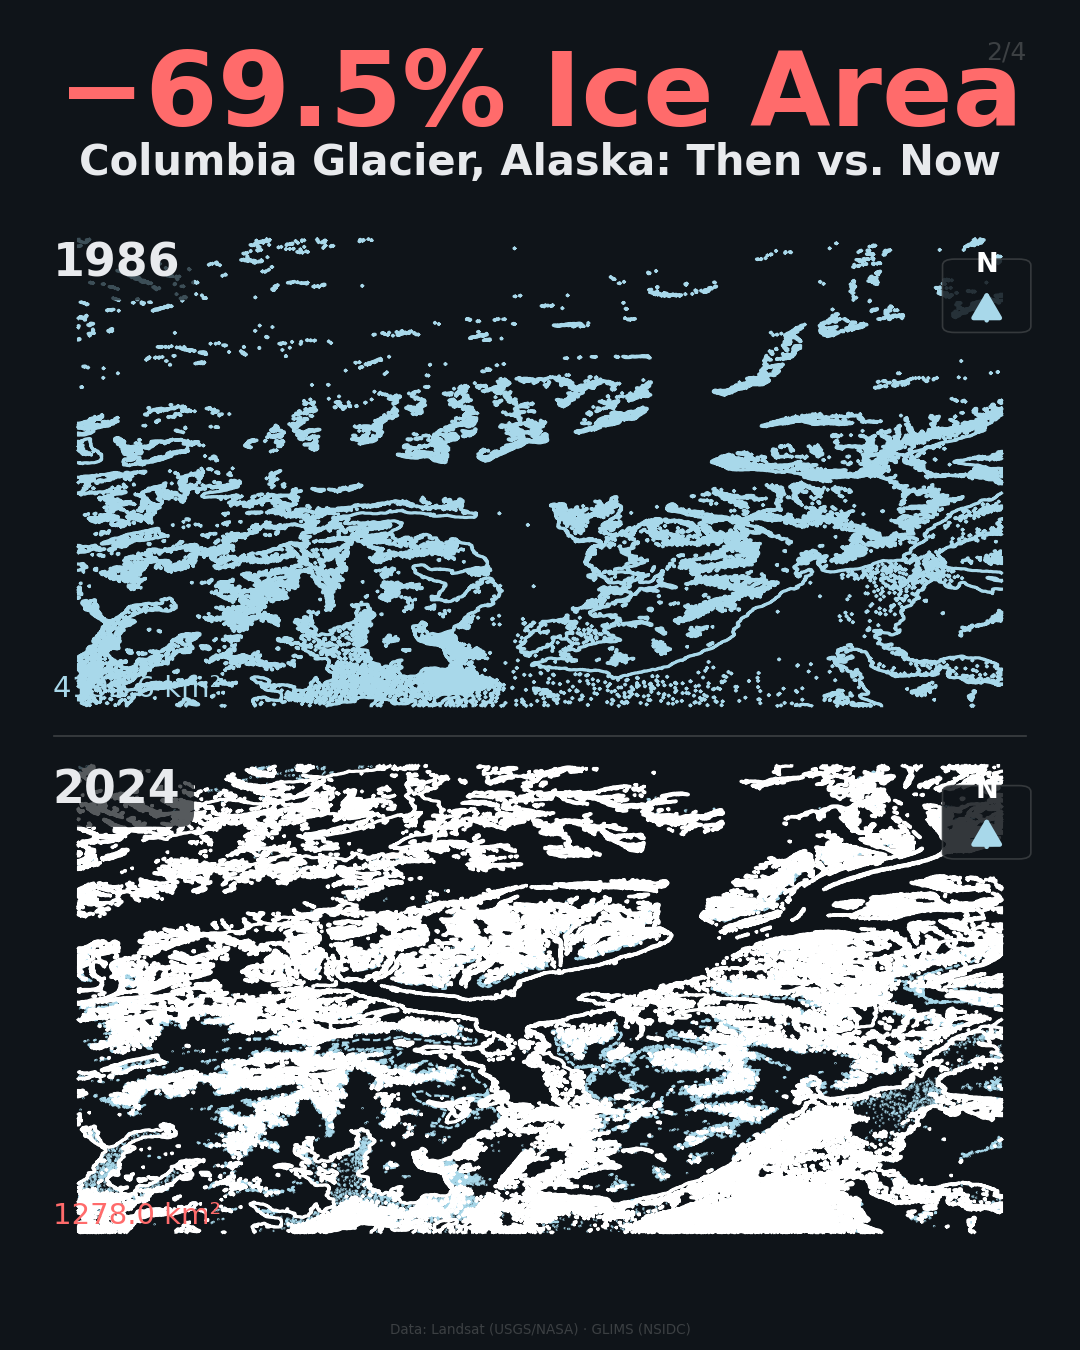
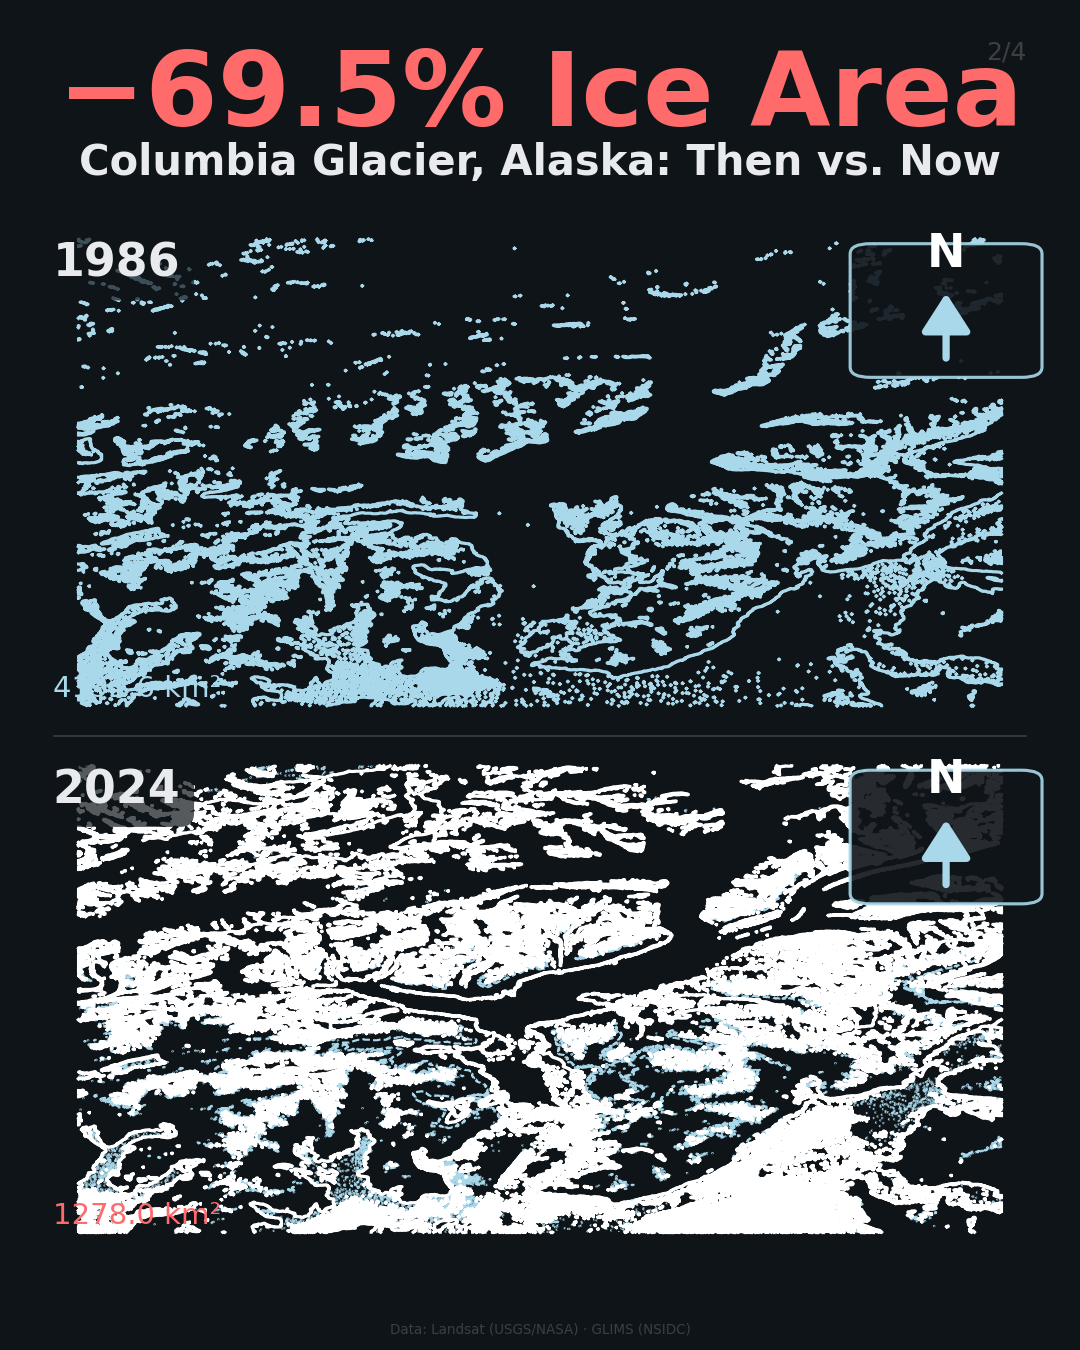
Make north arrow much more prominent in glacier slides
The previous north arrow was technically present but too small to see
in README/social media previews where the 1080x1350 slide is rendered
at ~400px wide.

Changes:
- Doubled arrow size (size=0.14 default, was 0.06)
- Thicker shaft (linewidth 3.5, was 2.2)
- Bigger N label (fontsize 22, was 13)
- Larger background panel with ice-cyan border (was thin gray)
- Increased panel opacity to 0.9 (was 0.85)
- Repositioned slightly inside the visible area on each call site

Regenerated docs/images/columbia_ghost_ice.png and columbia_comparison.png.

Changed region(s): [[0.7639, 0.56, 0.9778, 0.6844], [0.7639, 0.1556, 0.9778, 0.28]]

diff --git a/glacier_toolkit/style.py b/glacier_toolkit/style.py
@@ -228,22 +228,23 @@ def add_colorbar(fig, mappable, cb_unit="", vmin=0, vmax=1, extend="neither", po
 # ══════════════════════════════════════════════════════════════════════════════
 
 
-def add_north_arrow(ax, x=0.92, y=0.88, size=0.08, color=None, labelcolor=None):
-    """Draw a clear, visible north arrow on a matplotlib axes.
+def add_north_arrow(ax, x=0.90, y=0.85, size=0.14, color=None, labelcolor=None):
+    """Draw a clear, prominent north arrow on a matplotlib axes.
 
     Designed for image axes (e.g. satellite raster overlays) where the
     imagery is north-up — which is the standard for projected satellite
     rasters from Landsat, Sentinel-2, and most GIS workflows.
 
-    The arrow is drawn on a subtle dark background panel so it remains
-    visible against both bright snow/ice and dark rock/water.
+    The arrow is drawn on a dark rounded background panel so it remains
+    visible against both bright snow/ice and dark rock/water, and is
+    sized to remain legible in small README/social media previews.
 
     Parameters
     ----------
     ax : matplotlib.axes.Axes
         Target axes.
     x, y : float
-        Center position in axes coordinates (0-1). Default: top-right corner.
+        Center position in axes coordinates (0-1). Default: top-right.
     size : float
         Arrow length in axes coordinates.
     color : str, optional
@@ -258,45 +259,47 @@ def add_north_arrow(ax, x=0.92, y=0.88, size=0.08, color=None, labelcolor=None):
     if labelcolor is None:
         labelcolor = "#FFFFFF"
 
-    # Background panel for contrast (dark, semi-transparent)
-    pad = size * 0.55
+    # Larger background panel for visibility
+    pad_x = size * 0.65
+    pad_y_below = size * 0.65
+    pad_y_above = size * 1.2  # extra room for the N label
     bg = mpatches.FancyBboxPatch(
-        (x - pad, y - size * 0.6),
-        2 * pad,
-        size * 1.9,
-        boxstyle="round,pad=0.005,rounding_size=0.012",
+        (x - pad_x, y - pad_y_below),
+        2 * pad_x,
+        pad_y_below + pad_y_above,
+        boxstyle="round,pad=0.01,rounding_size=0.02",
         transform=ax.transAxes,
         facecolor=C_BG,
-        edgecolor=C_LIGHT,
-        linewidth=0.8,
-        alpha=0.85,
+        edgecolor=C_ICE,
+        linewidth=1.5,
+        alpha=0.9,
         zorder=10,
     )
     ax.add_patch(bg)
 
-    # Arrow shaft + head pointing up
+    # Arrow shaft + head pointing up — thick and bold
     ax.annotate(
         "",
         xy=(x, y + size * 0.6),
-        xytext=(x, y - size * 0.45),
+        xytext=(x, y - size * 0.5),
         xycoords="axes fraction",
         arrowprops=dict(
-            arrowstyle="-|>,head_length=0.6,head_width=0.35",
+            arrowstyle="-|>,head_length=0.7,head_width=0.45",
             color=color,
-            linewidth=2.2,
-            mutation_scale=18,
+            linewidth=3.5,
+            mutation_scale=22,
         ),
         annotation_clip=False,
         zorder=11,
     )
 
-    # "N" label above the arrow head
+    # Big "N" label above the arrow head
     ax.text(
         x,
-        y + size * 0.85,
+        y + size * 0.78,
         "N",
         transform=ax.transAxes,
-        fontsize=13,
+        fontsize=22,
         fontweight="bold",
         color=labelcolor,
         ha="center",

diff --git a/glacier_toolkit/visualize/comparison_maps.py b/glacier_toolkit/visualize/comparison_maps.py
@@ -87,7 +87,7 @@ def make_comparison_slide(
             np.clip(early_rgb * 1.5, 0, 1), extent=extent, aspect="auto", interpolation="bilinear"
         )
     _overlay_mask_outline(ax1, early_mask, color=C_ICE, linewidth=1.5, extent=extent)
-    add_north_arrow(ax1, x=0.94, y=0.82, size=0.07)
+    add_north_arrow(ax1, x=0.90, y=0.78, size=0.13)
     ax1.text(
         0.02,
         0.95,
@@ -124,7 +124,7 @@ def make_comparison_slide(
         ax2, early_mask, color=C_ICE, linewidth=1.0, linestyle="--", extent=extent
     )
     _overlay_mask_outline(ax2, late_mask, color="#FFFFFF", linewidth=1.5, extent=extent)
-    add_north_arrow(ax2, x=0.94, y=0.82, size=0.07)
+    add_north_arrow(ax2, x=0.90, y=0.78, size=0.13)
     ax2.text(
         0.02,
         0.95,

diff --git a/glacier_toolkit/visualize/timelapse.py b/glacier_toolkit/visualize/timelapse.py
@@ -122,7 +122,7 @@ def generate_timelapse_frames(
             _draw_contour(ax, data["mask"], C_ICE, 1.5, extent)
 
         # North arrow
-        add_north_arrow(ax, x=0.94, y=0.88, size=0.05)
+        add_north_arrow(ax, x=0.88, y=0.83, size=0.10)
 
         ax.axis("off")
 

diff --git a/glacier_toolkit/visualize/ghost_ice.py b/glacier_toolkit/visualize/ghost_ice.py
@@ -177,7 +177,7 @@ def make_ghost_ice_slide(
     ax.axis("off")
 
     # ── North arrow (top-right corner) ──
-    add_north_arrow(ax, x=0.94, y=0.88, size=0.05)
+    add_north_arrow(ax, x=0.88, y=0.83, size=0.10)
 
     # ── Legend ──
     legend_elements = [
